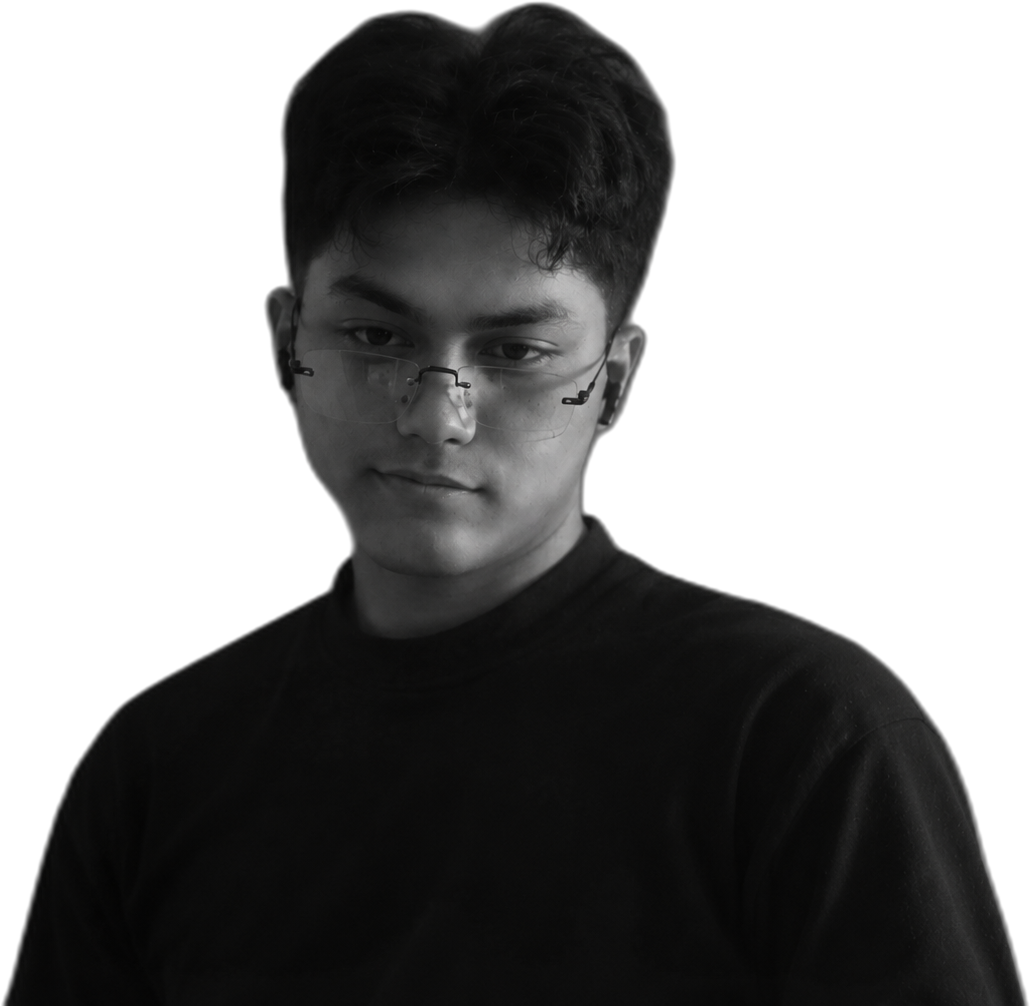
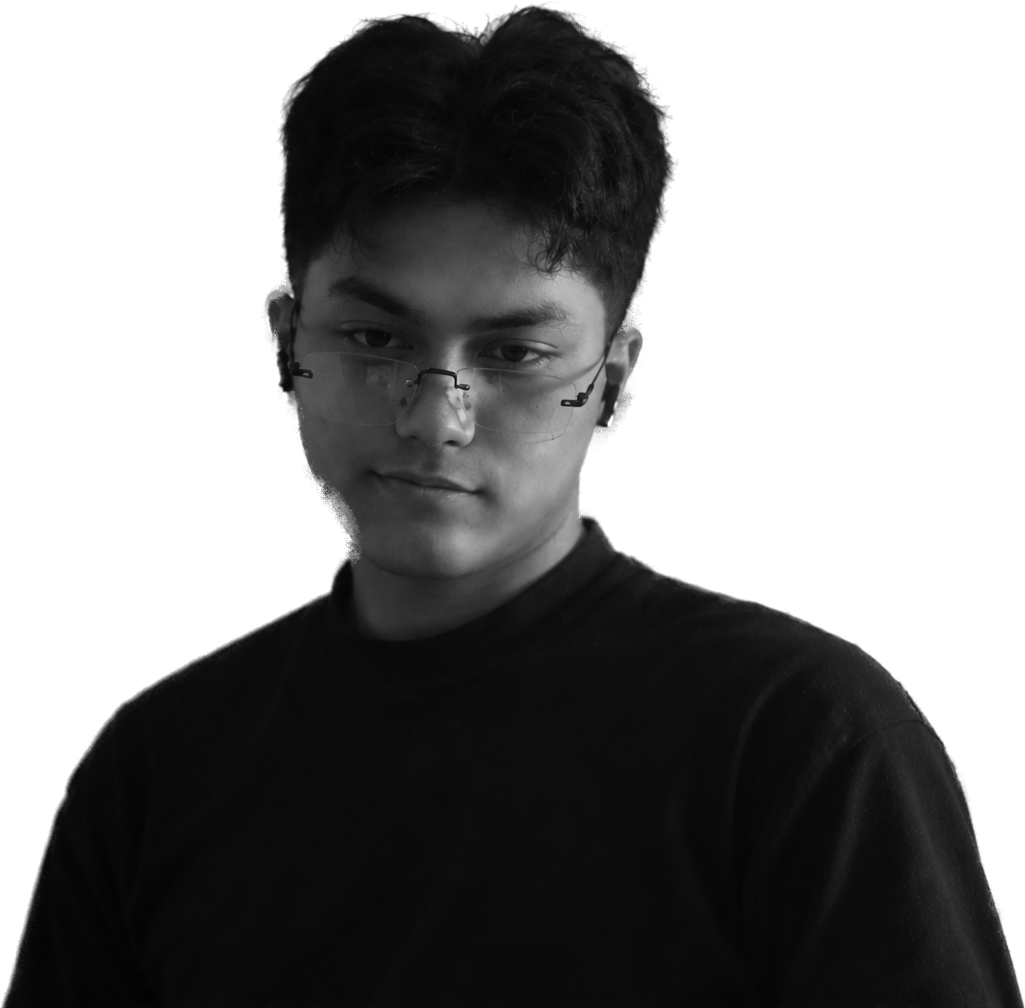
Refine hero portrait composition

diff --git a/assets/css/style.css b/assets/css/style.css
@@ -391,50 +391,113 @@ header {
 .opening {
   display: grid;
   min-height: calc(100vh - var(--header-h));
-  grid-template-columns: minmax(0, 0.95fr) minmax(320px, 1.05fr);
+  grid-template-columns: minmax(0, 1fr) minmax(360px, 1.18fr);
   align-items: center;
-  gap: clamp(24px, 4vw, 64px);
-  padding: 80px var(--gutter) 110px;
+  gap: clamp(20px, 3.5vw, 56px);
+  padding: 70px var(--gutter) 100px;
+  isolation: isolate;
   text-align: left;
 }
 
 .hero-copy {
+  position: relative;
+  z-index: 2;
   display: flex;
   flex-direction: column;
   align-items: flex-start;
 }
 
 .opening .display {
-  margin: 26px 0 30px;
+  margin: 24px 0 26px;
+  font-size: clamp(3.2rem, 6.4vw, 7rem);
+  text-wrap: balance;
 }
 
 .opening .lede {
-  margin: 0 0 38px;
+  max-width: 560px;
+  margin: 0 0 34px;
 }
 
 .hero-portrait {
   position: relative;
+  z-index: 1;
   display: flex;
   align-items: center;
   justify-content: center;
+  min-width: 0;
 }
 
 .hero-portrait::before {
   position: absolute;
-  inset: 4% 0 0;
-  border-radius: 50%;
-  background: radial-gradient(circle at 50% 45%, rgba(95, 168, 168, 0.24), transparent 70%);
+  inset: 8% 0 0;
+  border: 1px solid var(--line-soft);
+  border-radius: 48% 48% 42% 42% / 42% 42% 34% 34%;
+  background:
+    radial-gradient(circle at 50% 32%, rgba(95, 168, 168, 0.18), transparent 62%),
+    linear-gradient(180deg, rgba(255, 255, 255, 0.035), transparent 70%);
   content: '';
-  filter: blur(28px);
+}
+
+.hero-portrait::after {
+  position: absolute;
+  inset: 16% -2% 6%;
+  border: 1px solid transparent;
+  border-top-color: rgba(95, 168, 168, 0.45);
+  border-right-color: rgba(138, 143, 148, 0.22);
+  border-radius: 50%;
+  content: '';
+  animation: orbit 18s linear infinite;
 }
 
 .hero-portrait img {
   position: relative;
+  z-index: 1;
   width: 100%;
-  max-width: 620px;
+  max-width: 760px;
   height: auto;
-  filter: drop-shadow(0 32px 60px rgba(0, 0, 0, 0.55));
+  filter: drop-shadow(0 40px 70px rgba(0, 0, 0, 0.6));
   object-fit: contain;
+}
+
+.hero-badge {
+  position: absolute;
+  z-index: 2;
+  right: 0;
+  bottom: 14%;
+  display: inline-flex;
+  align-items: center;
+  gap: 10px;
+  padding: 10px 16px;
+  border: 1px solid var(--line-soft);
+  border-radius: 999px;
+  background: rgba(22, 23, 28, 0.78);
+  box-shadow: 0 12px 30px rgba(0, 0, 0, 0.35);
+  color: var(--text);
+  font-size: 0.64rem;
+  font-weight: 600;
+  letter-spacing: 0.2em;
+  text-transform: uppercase;
+  white-space: nowrap;
+  backdrop-filter: blur(12px);
+}
+
+.hero-badge::before {
+  width: 7px;
+  height: 7px;
+  border-radius: 50%;
+  background: #5fa8a8;
+  box-shadow: 0 0 12px rgba(95, 168, 168, 0.9);
+  content: '';
+}
+
+@keyframes orbit {
+  from {
+    transform: rotate(-18deg);
+  }
+
+  to {
+    transform: rotate(342deg);
+  }
 }
 
 /* ==========================================================================
@@ -1156,16 +1219,35 @@ header {
   }
 
   .opening {
-    gap: 40px;
+    gap: 36px;
+    padding-top: 56px;
     text-align: center;
+  }
+
+  .opening .display {
+    font-size: clamp(3rem, 12vw, 5.6rem);
   }
 
   .hero-copy {
     align-items: center;
   }
 
+  .hero-portrait::before {
+    inset: 6% 4% 0;
+  }
+
+  .hero-portrait::after {
+    display: none;
+  }
+
   .hero-portrait img {
-    max-width: 460px;
+    max-width: 540px;
+  }
+
+  .hero-badge {
+    right: 50%;
+    bottom: 7%;
+    transform: translateX(50%);
   }
 
   .contact-right {

diff --git a/index.html b/index.html
@@ -357,6 +357,7 @@
           </div>
           <div class="hero-portrait">
             <img src="assets/media/home-images/Mee-cutout.png" alt="Portrait of Rainiel Dejito" />
+            <span class="hero-badge" aria-hidden="true">Digital Builder</span>
           </div>
         </section>
 
